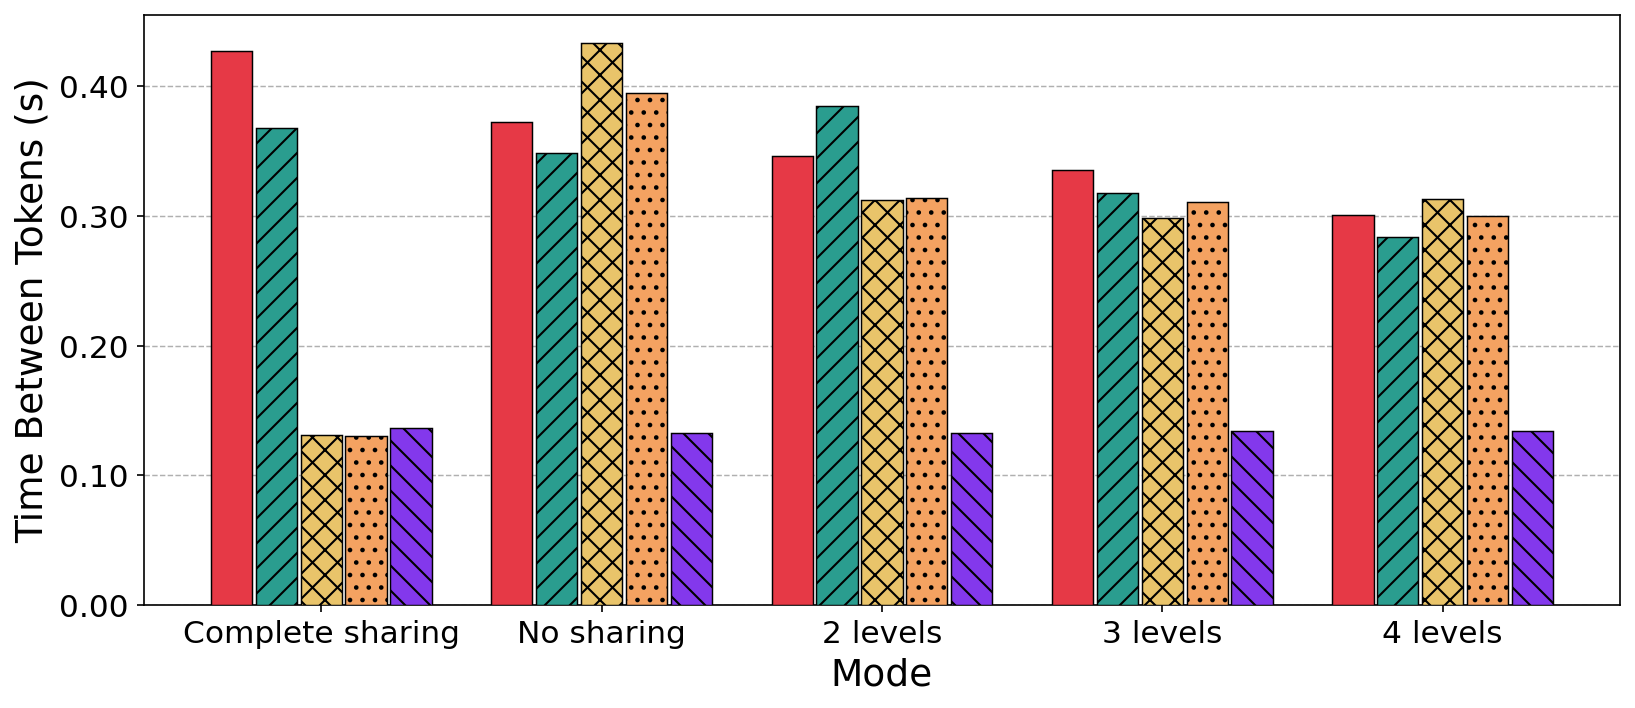
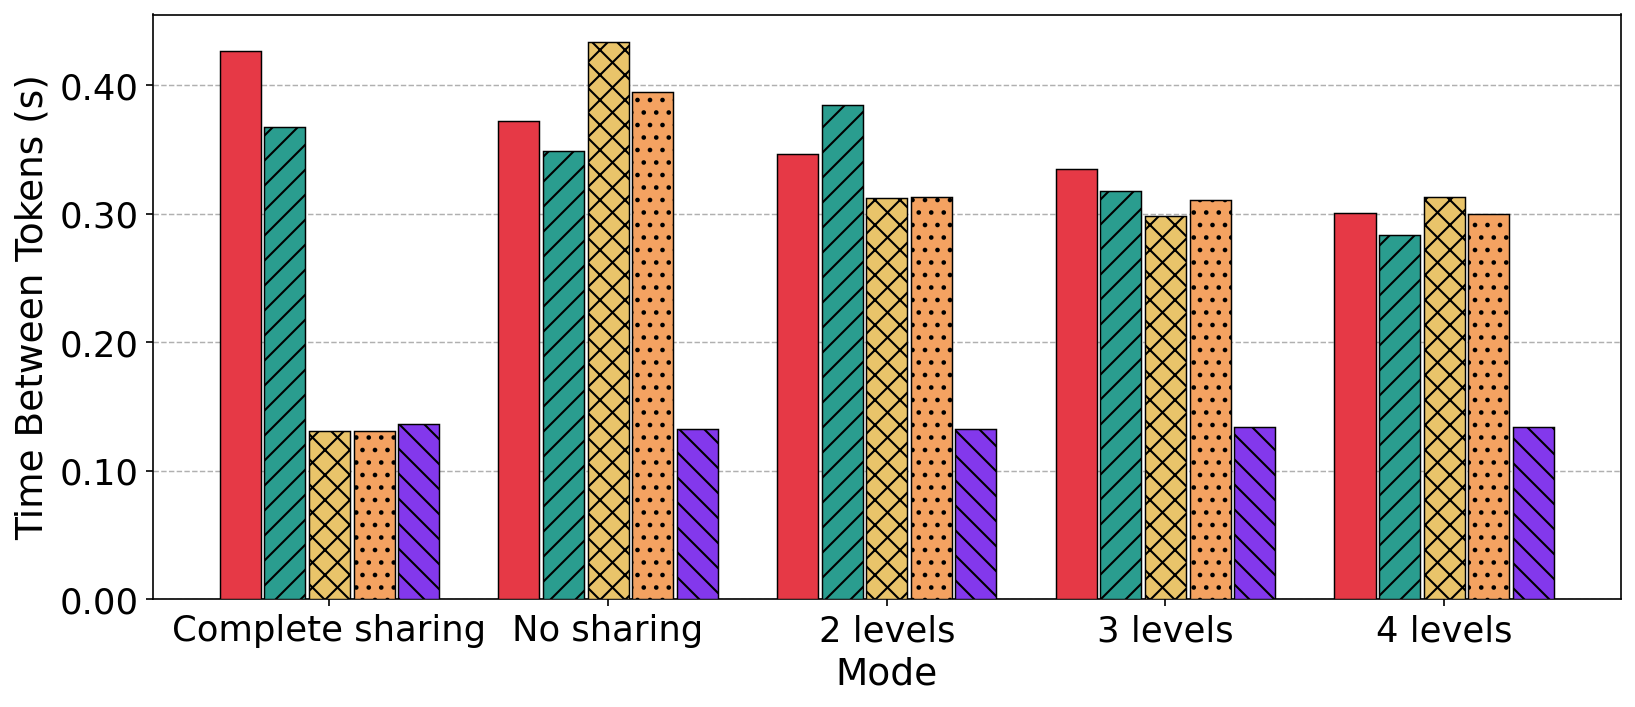
radix tree plots

Changed region(s): [[0.0, 0.0622, 0.9982, 0.9958], [0.967, 0.4668, 0.9982, 0.4979]]

diff --git a/code/vllm/radix_tree_logs/plot.py b/code/vllm/radix_tree_logs/plot.py
@@ -209,10 +209,10 @@ for sv in sorted(per_sys.keys()):
         ax.set_xticklabels(mode_labels, fontsize=16)
         ax.set_xlabel("Mode", fontsize=18)
         ax.set_ylabel(ylabel, fontsize=18)
-        ax.tick_params(axis="both", labelsize=15)
+        ax.tick_params(axis="both", labelsize=17)
         ax.yaxis.set_major_formatter(ticker.FormatStrFormatter("%.2f"))
         if metric_key == "throughput":
-            ax.legend(fontsize=13, framealpha=0.35, ncol=3,
+            ax.legend(fontsize=15, framealpha=0.35, ncol=3,
                       loc="upper left", bbox_to_anchor=(0, 1.18))
         ax.grid(True, axis="y", linewidth=0.7, linestyle="--", zorder=0)
         ax.set_axisbelow(True)
